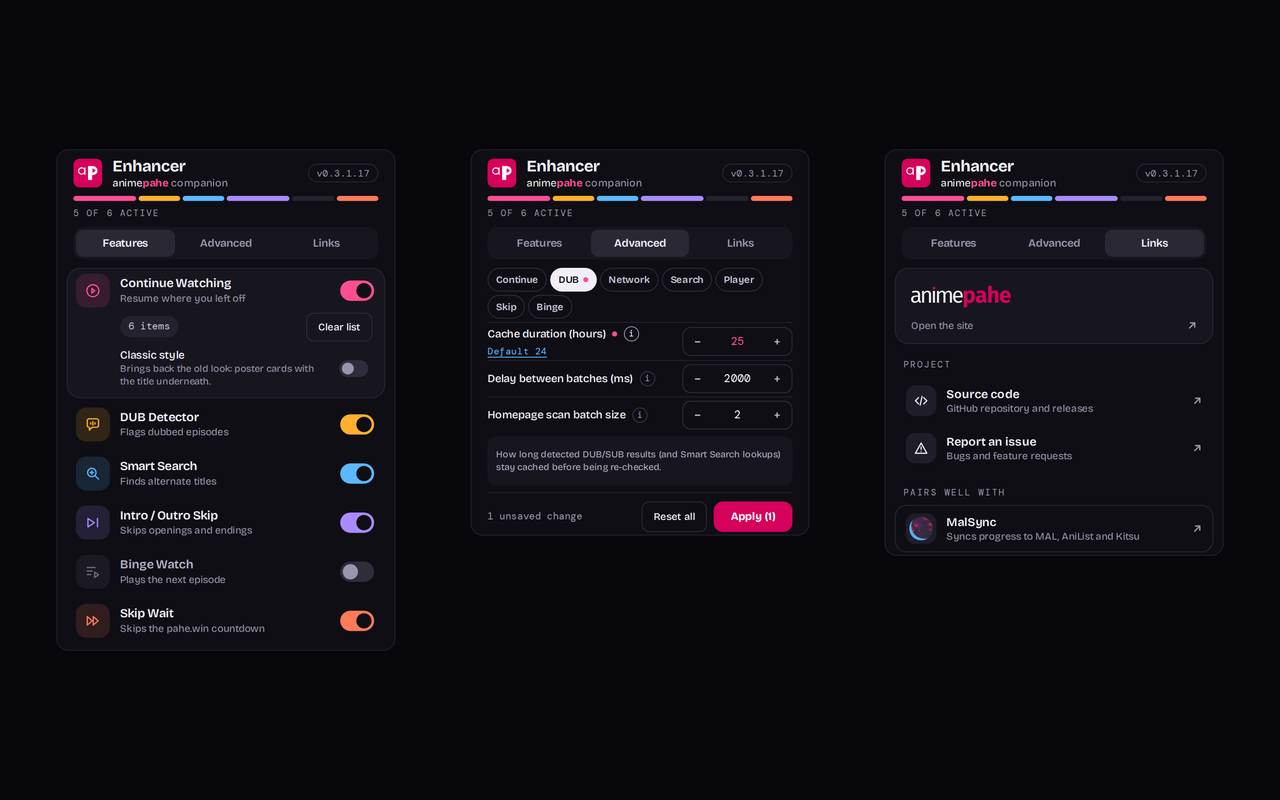
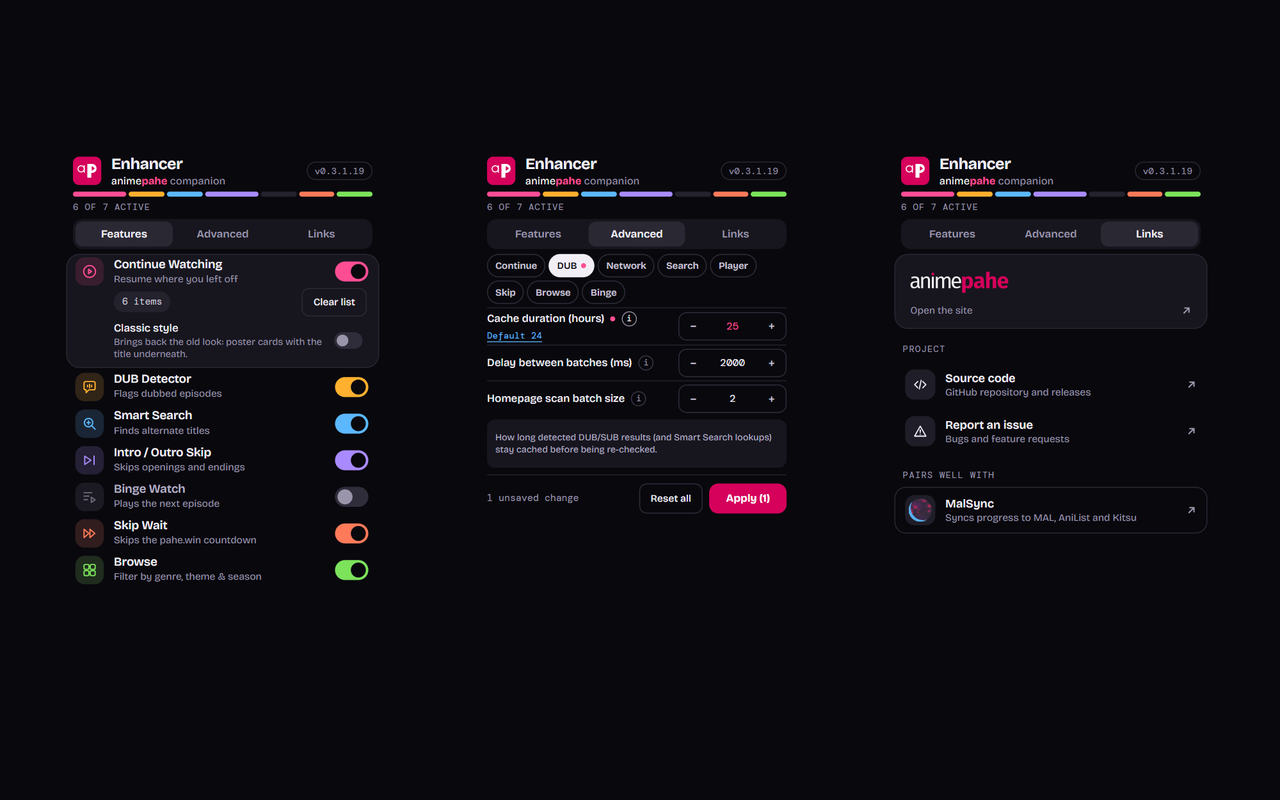
update README.md and screenshots for popup redesign and new feature

diff --git a/README.md b/README.md
@@ -51,7 +51,7 @@ Each feature can be turned on or off separately from the extension's popup. Sett
 <img src="screenshots/sc2.png" alt="Episode list showing the 6 of 9 dubbed summary bar, DUB and SUB ONLY badges, and status toast" width="100%" />
 <img src="screenshots/sc3.png" alt="Player page showing the inline DUB badge and English audio stream options" width="100%" />
 <img src="screenshots/sc4.png" alt="animepahe home page with the Continue Watching shelf of episode thumbnails, each with an episode number, progress bar and remove button, aligned above Latest Releases" width="100%" />
-<img src="screenshots/sc5.png" alt="The redesigned popup (v0.3.1.17), three tabs side by side: Features with Continue Watching expanded to show its Classic style switch and all six features listed, Advanced with a staged change and a setting description open, and Links showing the animepahe and MalSync logos" />
+<img src="screenshots/sc5.png" alt="The animepahe Enhancer popup (v0.3.1.19), showing all seven features including Browse, with Continue Watching expanded, a staged DUB Detector setting in Advanced, and the animepahe, project, and MalSync links" />
 <img src="screenshots/sc6.png" alt="Player page with the Skip Intro button and intro/outro progress bar highlights" width="100%" />
 <img src="screenshots/sc7.png" alt="Browse page filtering anime by Action and Mystery genres in grid view, with search, sorting, filters, and library controls" width="100%" />
 
